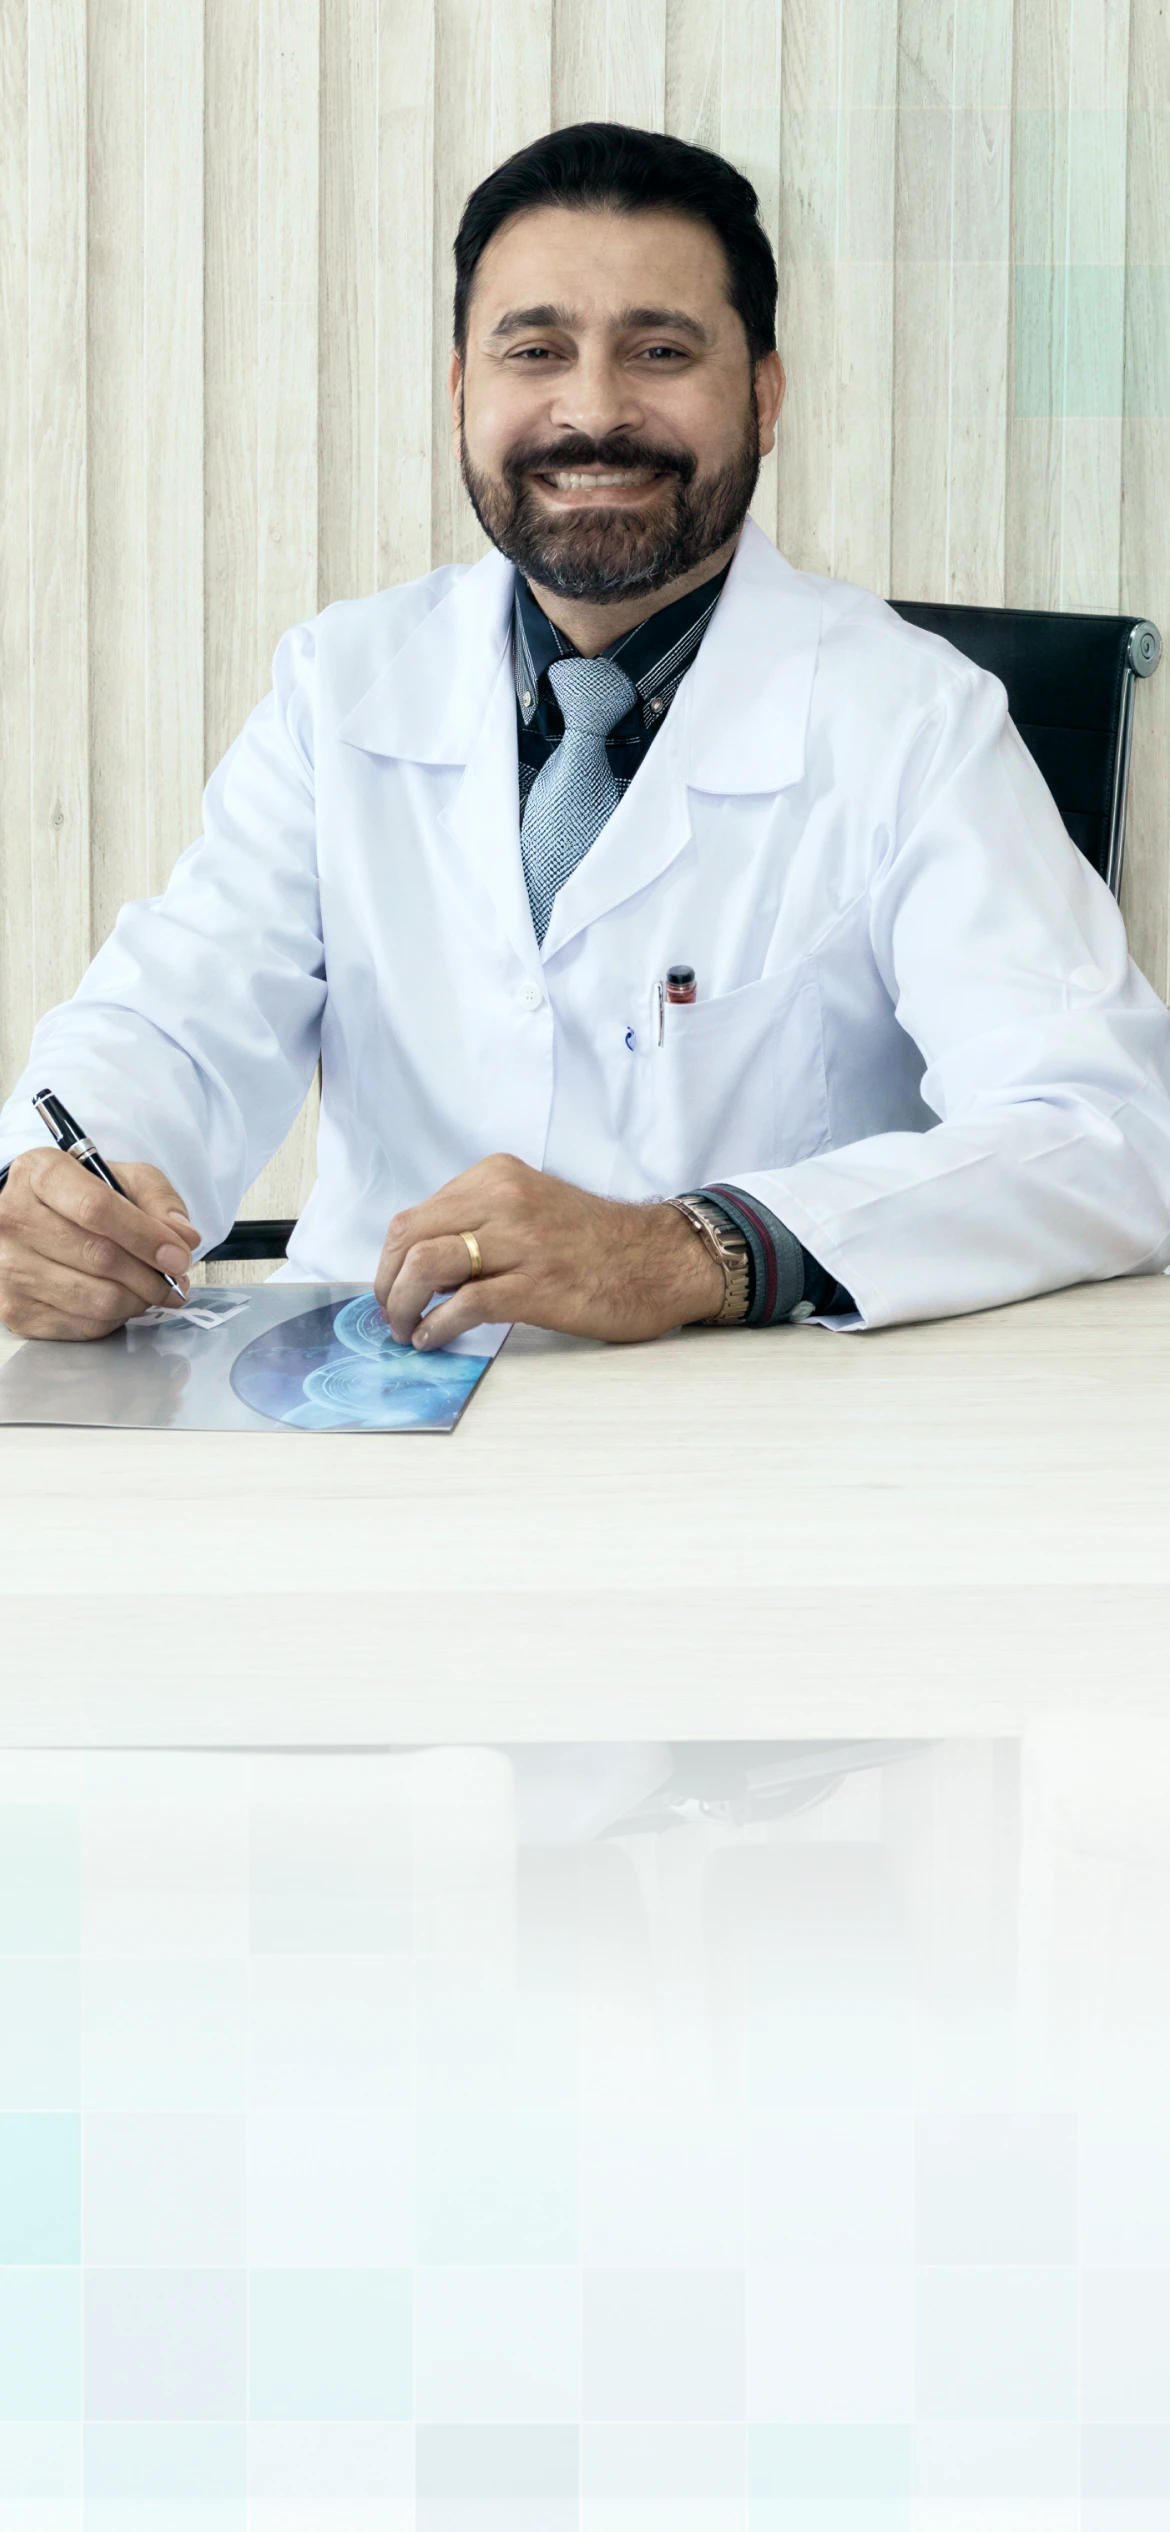
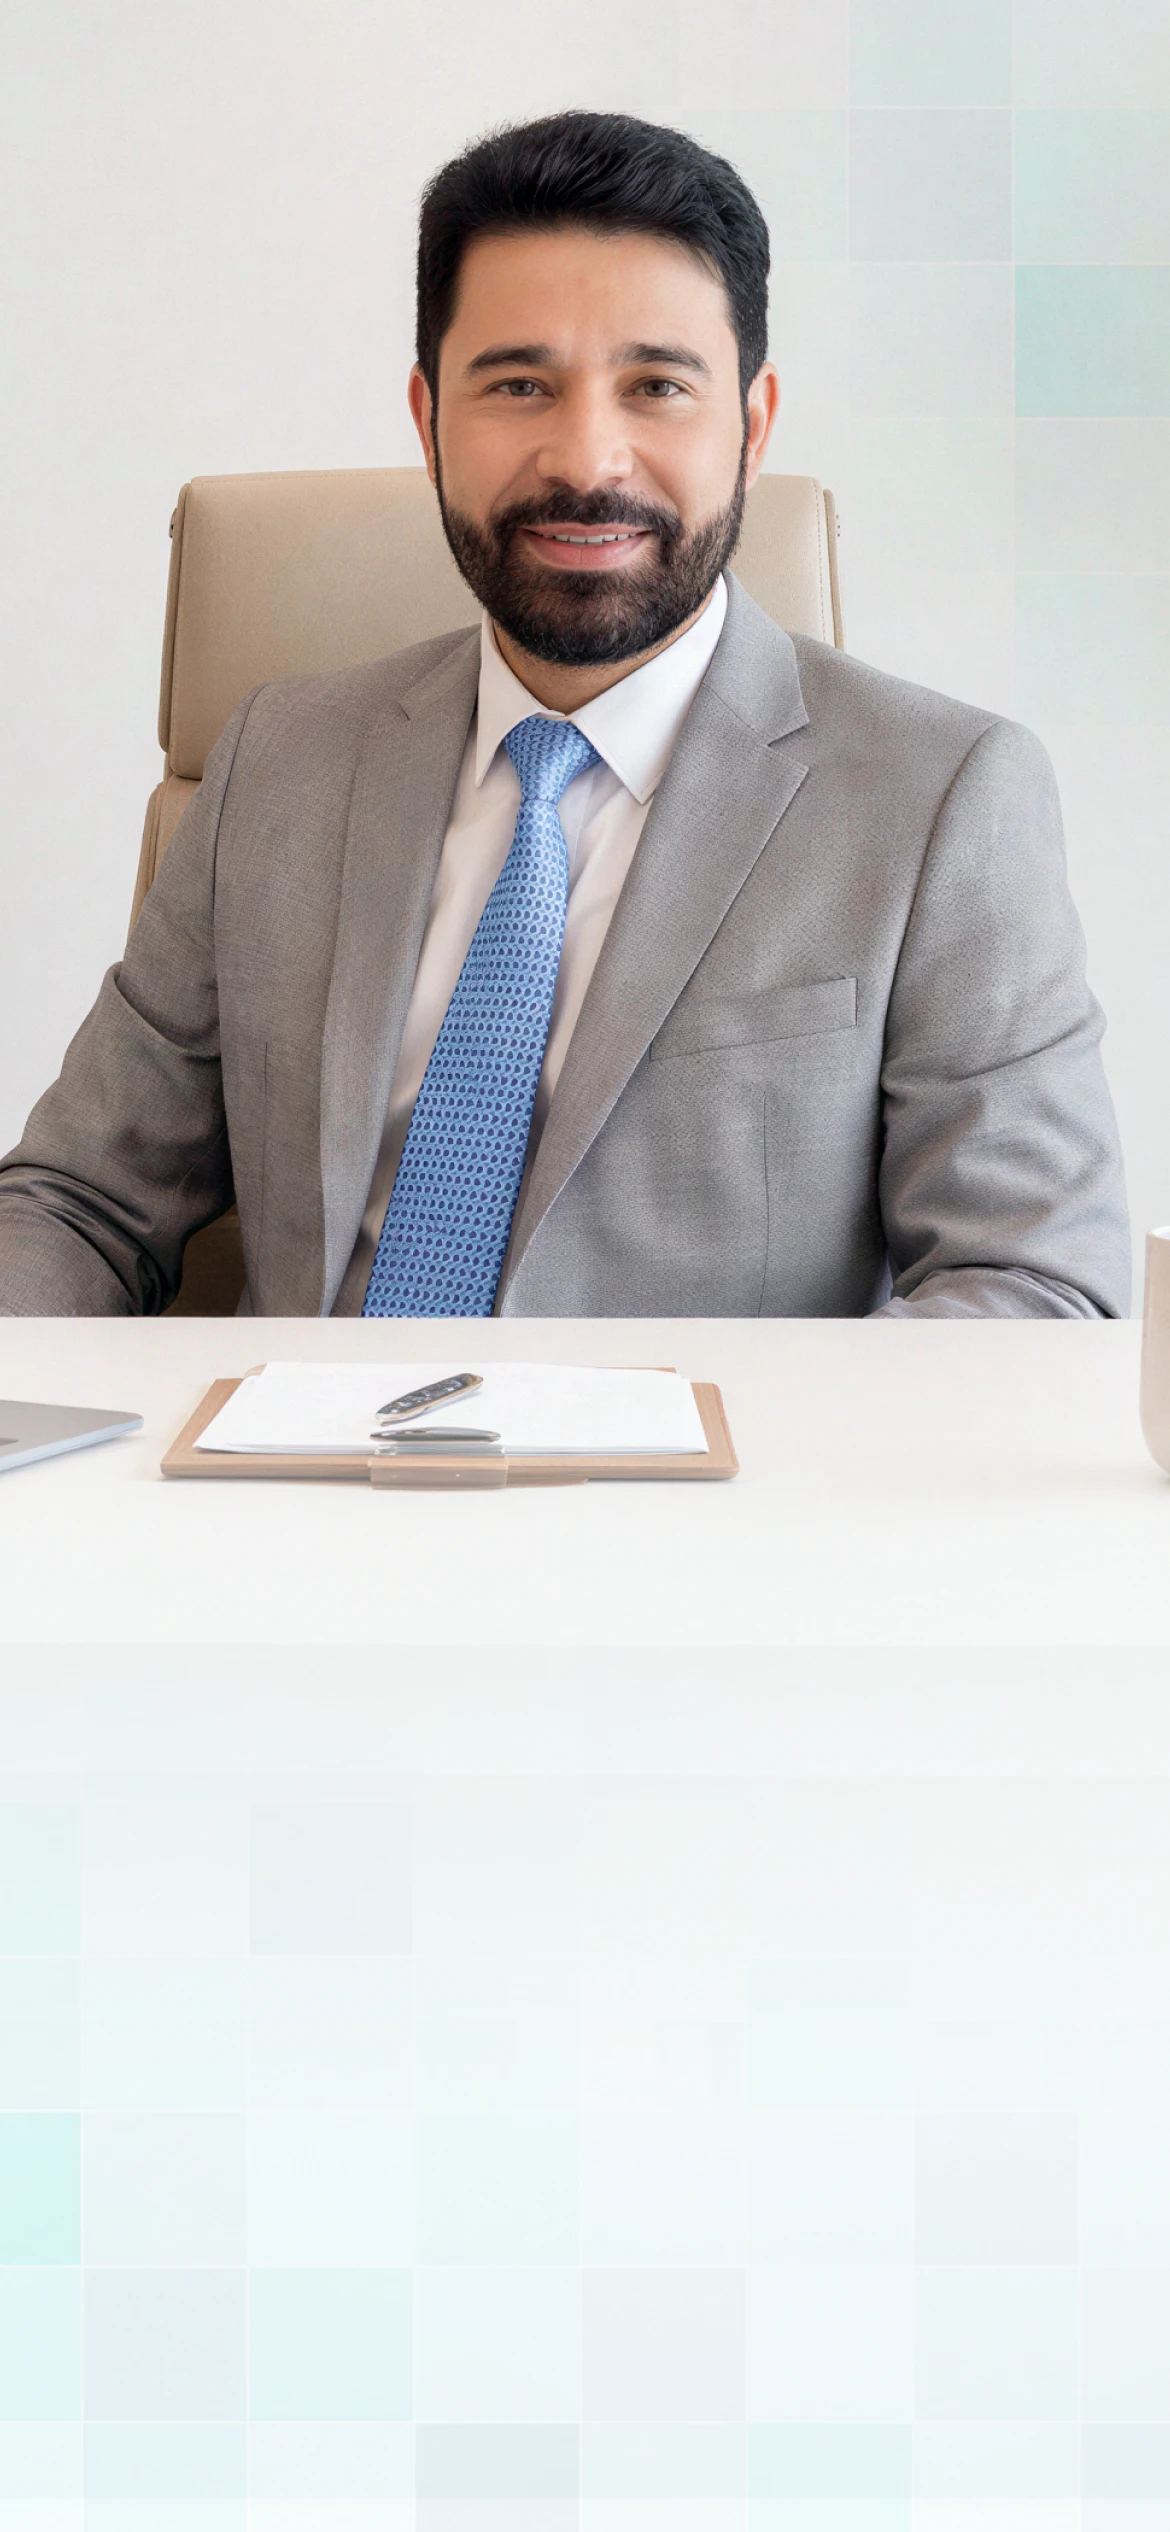
Novas fotos de fundo (desktop, mobile e tablet) e corte da lâmina na borda da mesa

diff --git a/index.html b/index.html
@@ -22,7 +22,7 @@
     --maxw:      1160px;
     /* Mobile: até onde a imagem aparece antes da lâmina de vidro começar.
        Ajuste este valor para subir/descer o corte reto. */
-    --sheet-top: 116vw; /* em vw para acompanhar a foto: 116vw ≈ logo abaixo das mãos */
+    --sheet-top: 113vw; /* em vw para acompanhar a foto: 113vw ≈ borda da mesa, logo abaixo do tronco */
   }
 
   * { box-sizing: border-box; }
@@ -352,7 +352,7 @@
       /* 68% no eixo X: em telas mais estreitas o corte preserva o médico à direita.
          22% no eixo Y: em telas mais baixas que 16:9 a maior parte do corte vai para a
          base (mesa), mantendo um respiro confortável acima da cabeça. */
-      background: #f4f9fa url('https://molecularallergy.com.br/wp-content/uploads/2026/09/fundo_desktop_3.webp') 68% 22% / cover no-repeat;
+      background: #f4f9fa url('fundo_desktop_3.webp') 68% 22% / cover no-repeat;
     }
 
     .jm-page {
@@ -430,7 +430,7 @@
       width: 100%;
       height: calc(100vw * 2532 / 1170);
       z-index: 0;
-      background: #f4f9fa url('https://molecularallergy.com.br/wp-content/uploads/2026/09/fundo_mobile.webp') center top / 100% auto no-repeat;
+      background: #f4f9fa url('fundo_mobile.webp') center top / 100% auto no-repeat;
     }
     /* O retrato de coluna some — o médico agora está no fundo */
     .jm-col-portrait { display: none; }
@@ -469,10 +469,10 @@
 
   /* ---------- TABLET (768–1023px): imagem própria 3:4, lâmina full-bleed, conteúdo centralizado ---------- */
   @media (min-width: 768px) and (max-width: 1023px) {
-    :root { --sheet-top: 88vw; } /* 88vw ≈ logo abaixo das mãos na imagem do tablet */
+    :root { --sheet-top: 83vw; } /* 83vw ≈ borda da mesa na imagem do tablet */
     .jm-bg-mobile {
       height: calc(100vw * 2048 / 1536);
-      background-image: url('https://molecularallergy.com.br/wp-content/uploads/2026/09/fundo_tablet.webp');
+      background-image: url('fundo_tablet.webp');
     }
     /* A lâmina ocupa a largura toda; só o conteúdo fica limitado a 560px */
     .jm-stack {
@@ -488,12 +488,12 @@
 <body>
   <div class="jm-glow" aria-hidden="true"></div>
   <!-- Fundo full-bleed do desktop (médico à direita). Só aparece a partir de 1024px.
-       Imagem hospedada no WordPress: /wp-content/uploads/2026/09/fundo_desktop_3.webp -->
+       Imagem: fundo_desktop_3.webp (mesma pasta) -->
 
   <div class="jm-bg-desktop" aria-hidden="true"></div>
   <!-- Fundo full-bleed do mobile e do tablet (imagem vertical do médico). Só aparece até 1023px.
        Mobile usa "fundo_mobile.webp"; tablet (768–1023px) usa "fundo_tablet.webp",
-       ambas hospedadas no WordPress em /wp-content/uploads/2026/09/. -->
+       ambas na mesma pasta deste HTML. -->
   <div class="jm-bg-mobile" aria-hidden="true"></div>
 
   <main class="jm-page">
